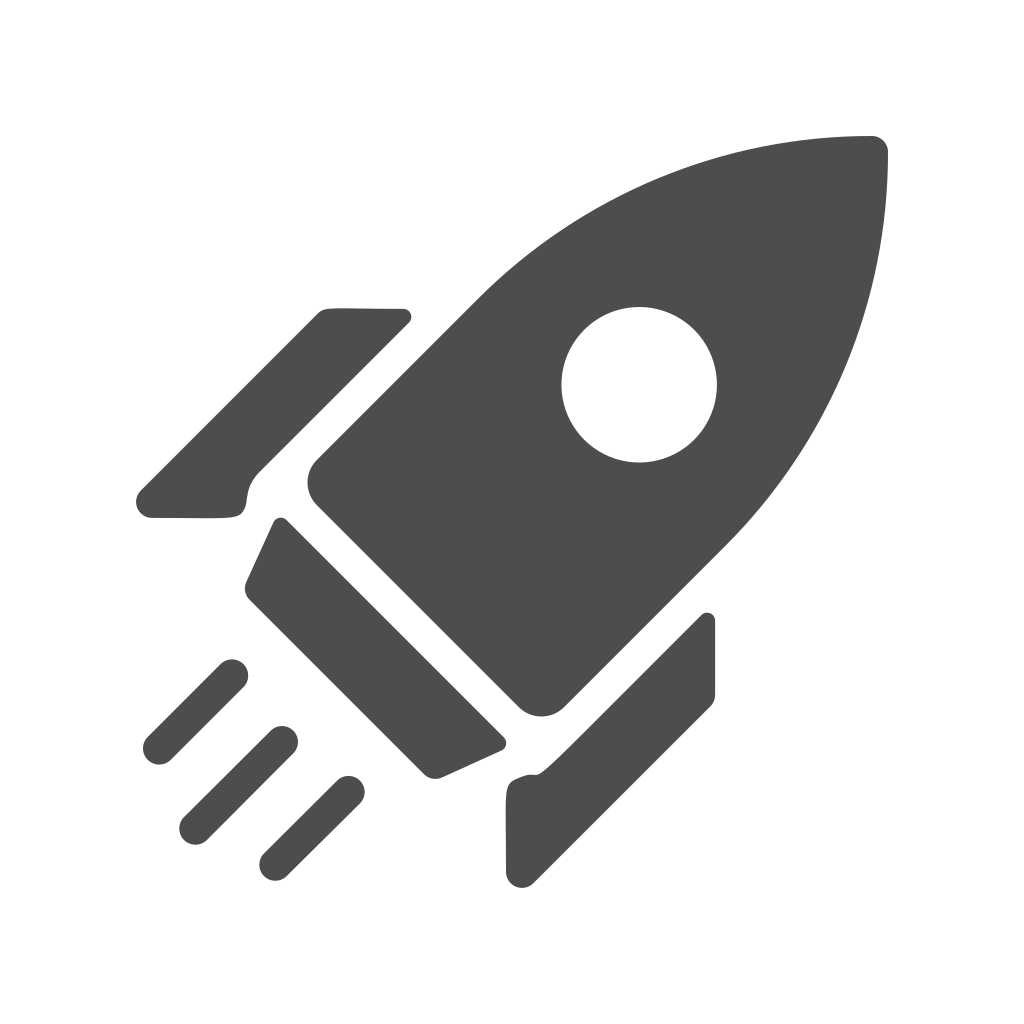
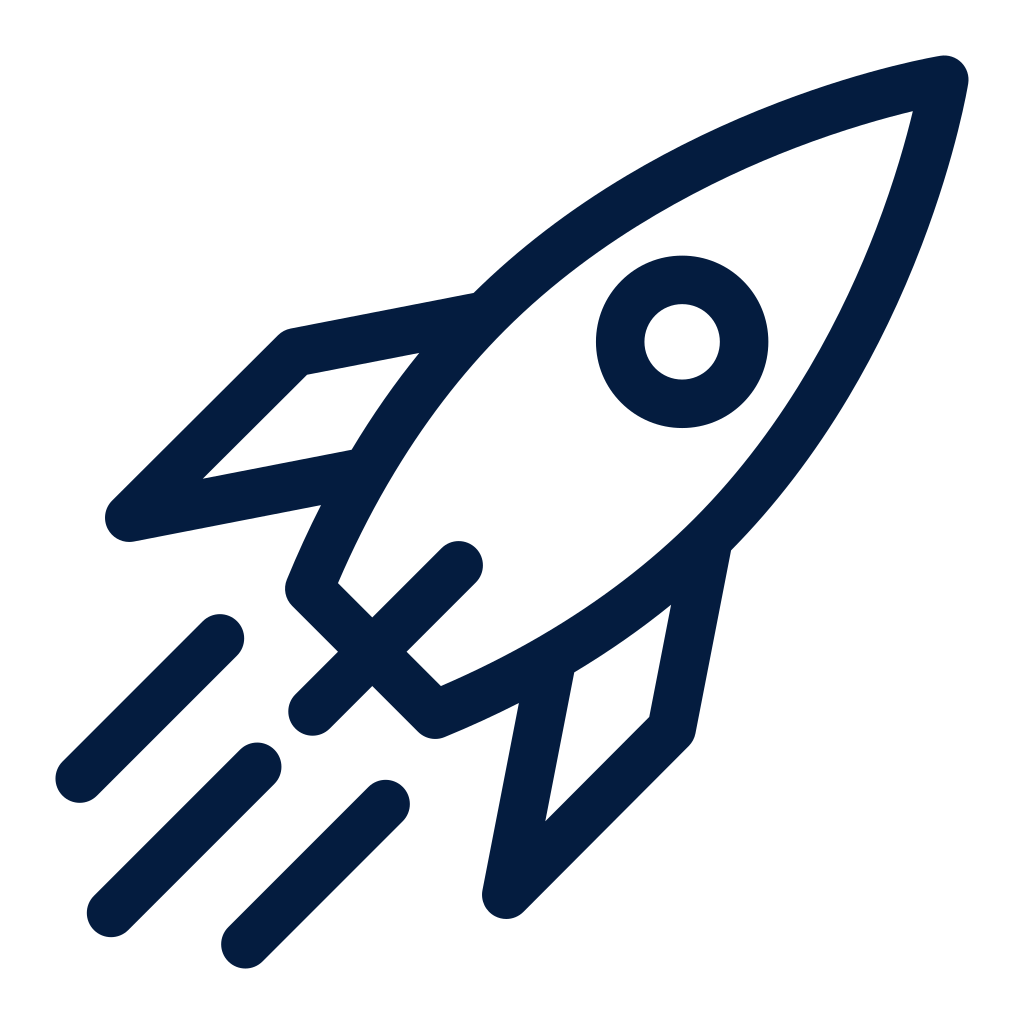
more frontend changes

diff --git a/client/src/lib/landingpage/Card.svelte b/client/src/lib/landingpage/Card.svelte
@@ -1,0 +1,18 @@
+<script>
+    function handleClick() {
+        alert("Button clicked!");
+    }
+</script>
+
+<section class="font-[Bungee] flex flex-col h-screen text-white bg-gradient-to-b from-darkblue from-85% to-darkblue-dark to-100% justify-center items-center">
+    <i class="fa-light fa-rocket-launch fa-10x mb-8"></i>
+    <h1 class="text-2xl pb-8">Something something inspiration</h1>
+    <button 
+        class="group relative rounded-lg text-lg px-10 py-4 overflow-hidden transition-all duration-500 bg-black"
+        onclick={() => handleClick()}
+    >
+    RANK UP NOW
+        <span class="absolute left-0 bottom-0 h-1 w-0 bg-gradient-to-r from-cyan-400 via-purple-400 to-pink-400 transition-all duration-500 ease-out group-hover:w-full"></span>
+        <span class="absolute right-0 top-0 h-1 w-0 bg-gradient-to-l from-cyan-400 via-purple-400 to-pink-400 transition-all duration-500 ease-out group-hover:w-full"></span>
+    </button>
+</section>

diff --git a/client/src/lib/Header.svelte b/client/src/lib/Header.svelte
@@ -1,9 +1,9 @@
 <script>
     let { active } = $props();
 </script>
-<nav class="mx-16 my-8 font-[Bungee]">
-    <ul class="flex space-x-4 items-center">
-        <li class="pl-4 w-16 h-16 flex items-center justify-center"><img src="../src/assets/icon.png" alt="icon"></li>
+<nav class="font-[Bungee] fixed w-full bg-gradient-to-b from-darkblue-light to-transparent text-white">
+    <ul class="flex items-center px-16 py-8">
+        <li class="pl-4 w-16 h-16 flex items-center justify-center"><i class="fa-light fa-rocket-launch fa-2x"></i></li>
         <li class="pl-4 text-2xl"><a class:active={active === "/"} href="/">XPresso</a></li>
         <!--li><a class:active={active.match("^/example")} href="/example/testValue?key1=value1&key2=value2">Example with query parameters</a></li>-->
         <li class="ml-auto pr-4"><a class:active={active === "/login"} href="/login">My Account</a></li>

diff --git a/client/src/lib/landingpage/Games.svelte b/client/src/lib/landingpage/Games.svelte
@@ -1,0 +1,21 @@
+<script>
+
+</script>
+
+<section class="flex justify-evenly bg-darkblue-dark py-4">
+    <article class="px-6 py-6 text-green">
+        <i class="fa-regular fa-gamepad fa-3x"></i>
+    </article>
+    <article class="px-6 py-6 text-green">
+        <i class="fa-regular fa-gamepad fa-3x"></i>
+    </article>
+    <article class="px-6 py-6 text-green">
+        <i class="fa-regular fa-gamepad fa-3x"></i>
+    </article>
+    <article class="px-6 py-6 text-green">
+        <i class="fa-regular fa-gamepad fa-3x"></i>
+    </article>
+    <article class="px-6 py-6 text-green">
+        <i class="fa-regular fa-gamepad fa-3x"></i>
+    </article>
+</section>

diff --git a/client/src/lib/landingpage/Overview.svelte b/client/src/lib/landingpage/Overview.svelte
@@ -1,0 +1,14 @@
+<script>
+
+</script>
+
+<section class="flex flex-row">
+    <section class="w-1/2">
+        <img src='../src/assets/spirit_blossom_syndra.jpg' 
+        alt="cover" 
+        class="h-full w-full object-cover [mask-image:linear-gradient(to_right,black_75%,transparent_100%)] [mask-repeat:no-repeat] [mask-size:cover]"/>
+    </section>
+    <article class='w-1/2'>
+
+    </article>
+</section>

diff --git a/client/src/app.css b/client/src/app.css
@@ -1,7 +1,17 @@
 @import "tailwindcss";
 
-:root {
-/*  Variables can go here */
+@theme {
+  --color-lightgreen: #e9fff8;
+  --color-lightred: #fff3f3;
+  --color-lightblue: #e5f6ff;
+
+  --color-red: #ed7878;
+  --color-green: #82d9c8;
+  --color-blue: #6aa5ff;
+
+  --color-darkblue: #0d3c69;
+  --color-darkblue-light: #105392;
+  --color-darkblue-dark: #031120;
 }
 
 @font-face {

diff --git a/client/src/pages/Home.svelte b/client/src/pages/Home.svelte
@@ -1,3 +1,9 @@
 <script>
-    
+    import LandingPageCard from '../lib/landingpage/Card.svelte';
+    import LandingPageGames from '../lib/landingpage/Games.svelte'
+    import LandingPageOverview from '../lib/landingpage/Overview.svelte'
 </script>
+
+<LandingPageCard />
+<LandingPageGames />
+<LandingPageOverview />

diff --git a/client/src/lib/buttons/Button.svelte b/client/src/lib/buttons/Button.svelte
@@ -1,0 +1,11 @@
+<script>
+    let { label = '', color = '', hover = '', onClick = () => {} } = $props();
+</script>
+
+<button 
+    class="rounded-lg text-lg px-10 py-4 text-white {color} hover:{hover}"
+    onclick={() => onClick()}
+>
+  {label}
+
+</button>

diff --git a/client/src/App.svelte b/client/src/App.svelte
@@ -25,5 +25,7 @@
   router.start();
 </script>
 
+<link rel="stylesheet" crossorigin="anonymous" href="https://site-assets.fontawesome.com/releases/v7.0.0/css/all.css">
+
 <Header active={currentRoute} />
 <Page {context} />
